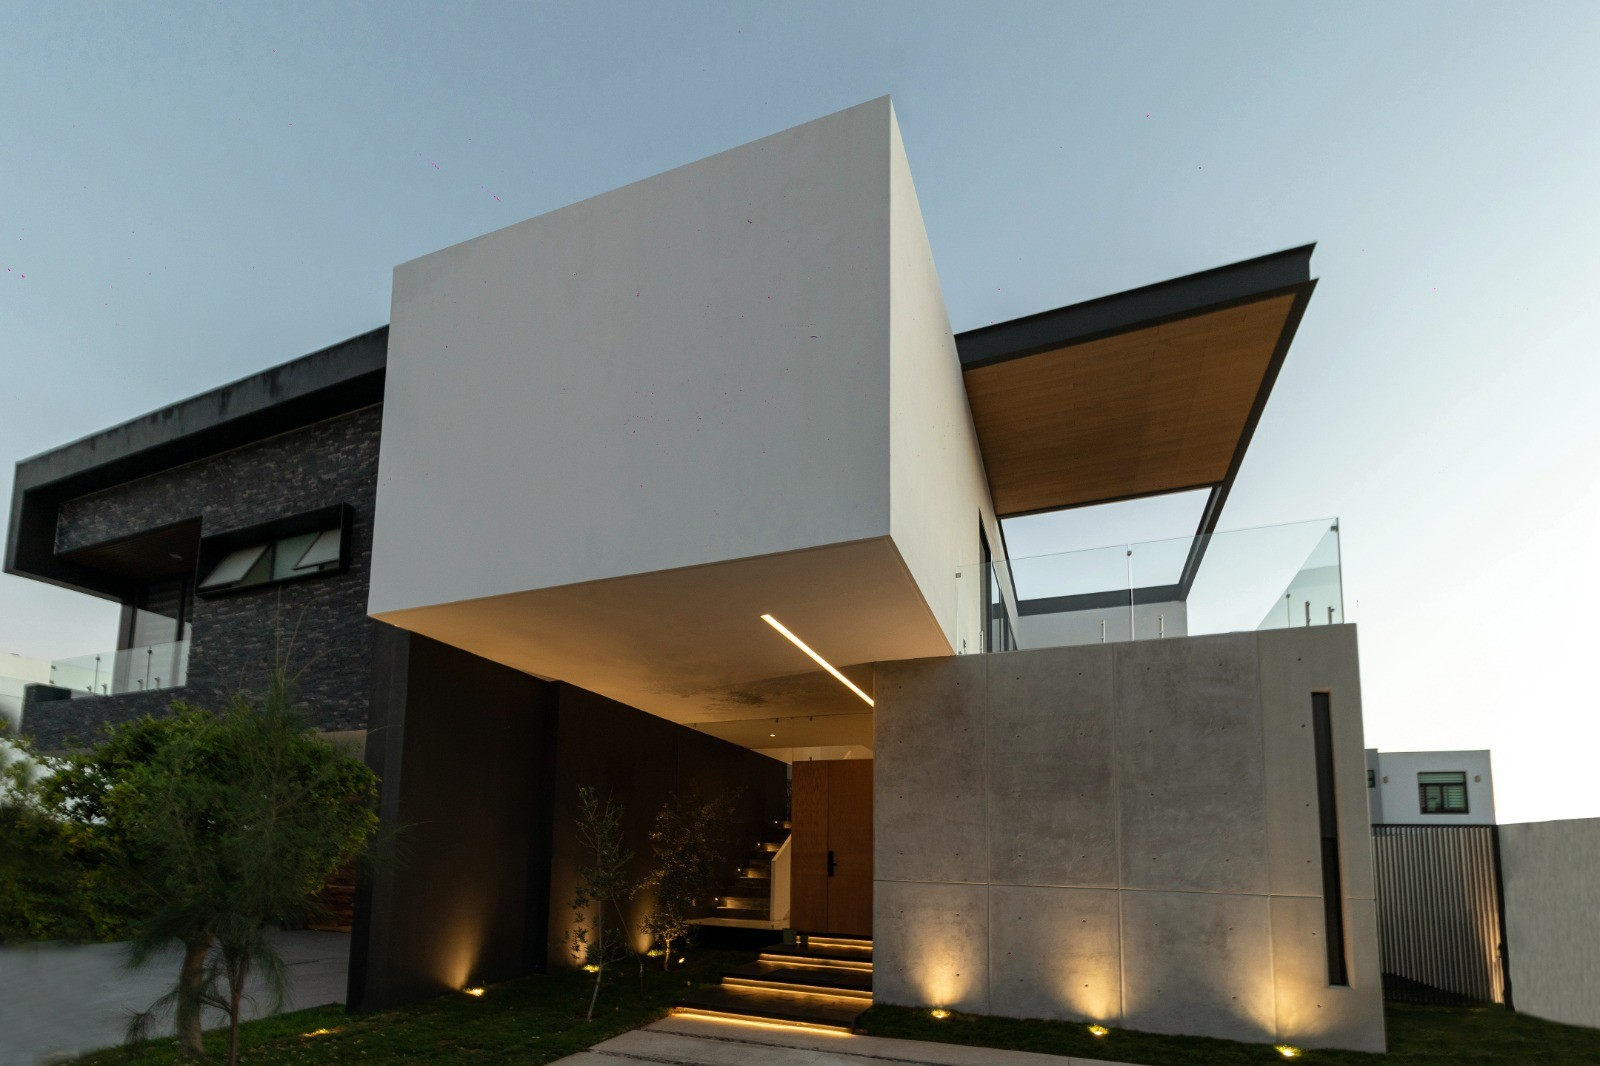
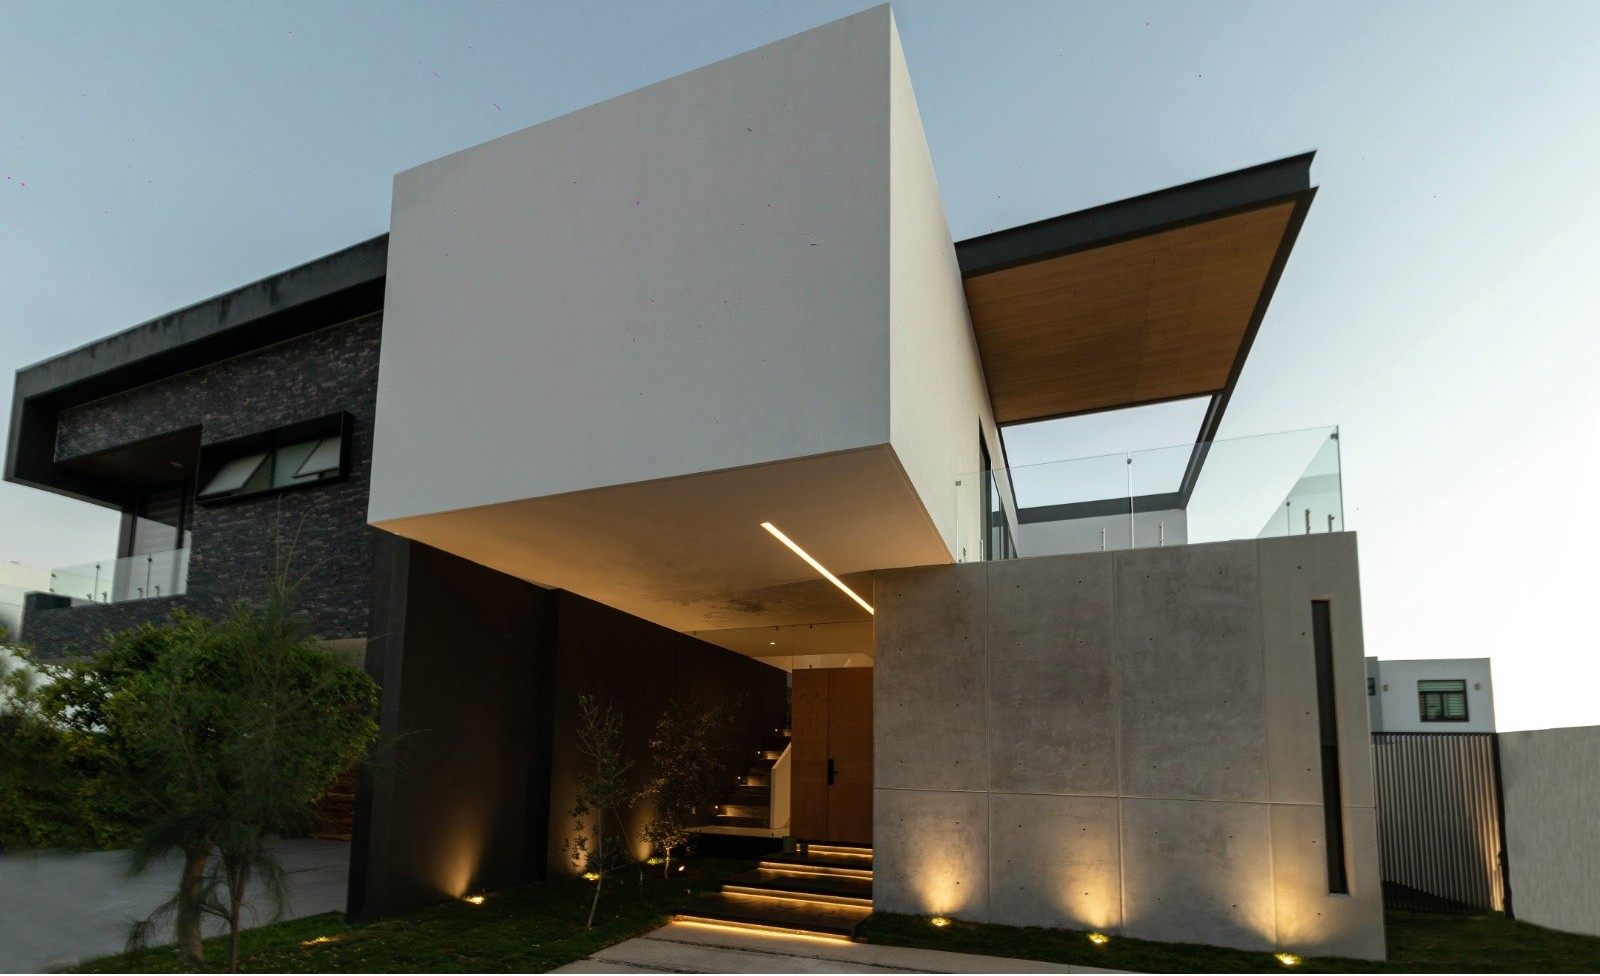
Implemenrtacion de imagenes y textos

diff --git a/src/data/nat.ts b/src/data/nat.ts
@@ -136,7 +136,7 @@ export const bannerSlides: BannerSlide[] = [
     subtitle: "Soluciones arquitectónicas de vanguardia",
     description:
       "Diseñamos e instalamos soluciones integrales en aluminio, carpintería y cristal para proyectos residenciales y comerciales.",
-    backgroundImage: "/images/proyectos/fachadas/fachada-7.jpeg",
+    backgroundImage: "/images/proyectos/fachadas/fachada-12.jpg",
     ctaText: "Cotiza ahora",
     ctaHref: "#contacto",
   },
@@ -146,7 +146,7 @@ export const bannerSlides: BannerSlide[] = [
     subtitle: "Más de 10 años de experiencia",
     description:
       "Fabricamos productos con los más altos estándares de calidad, garantizando diseños vanguardistas y precios accesibles.",
-    backgroundImage: "/images/proyectos/fachadas/fachada-8.jpeg",
+    backgroundImage: "/images/proyectos/fachadas/fachada-20.jpeg",
     ctaText: "Conócenos",
     ctaHref: "#quienes-somos",
   },
@@ -156,7 +156,7 @@ export const bannerSlides: BannerSlide[] = [
     subtitle: "Soluciones completas para tu proyecto",
     description:
       "Ofrecemos una amplia gama de productos en aluminio, cristal y carpintería para toda clase de construcciones y remodelaciones.",
-    backgroundImage: "/images/proyectos/fachadas/fachada-2.jpeg",
+    backgroundImage: "/images/proyectos/fachadas/fachadas-26.jpg",
     ctaText: "Ver productos",
     ctaHref: "#productos",
   },
